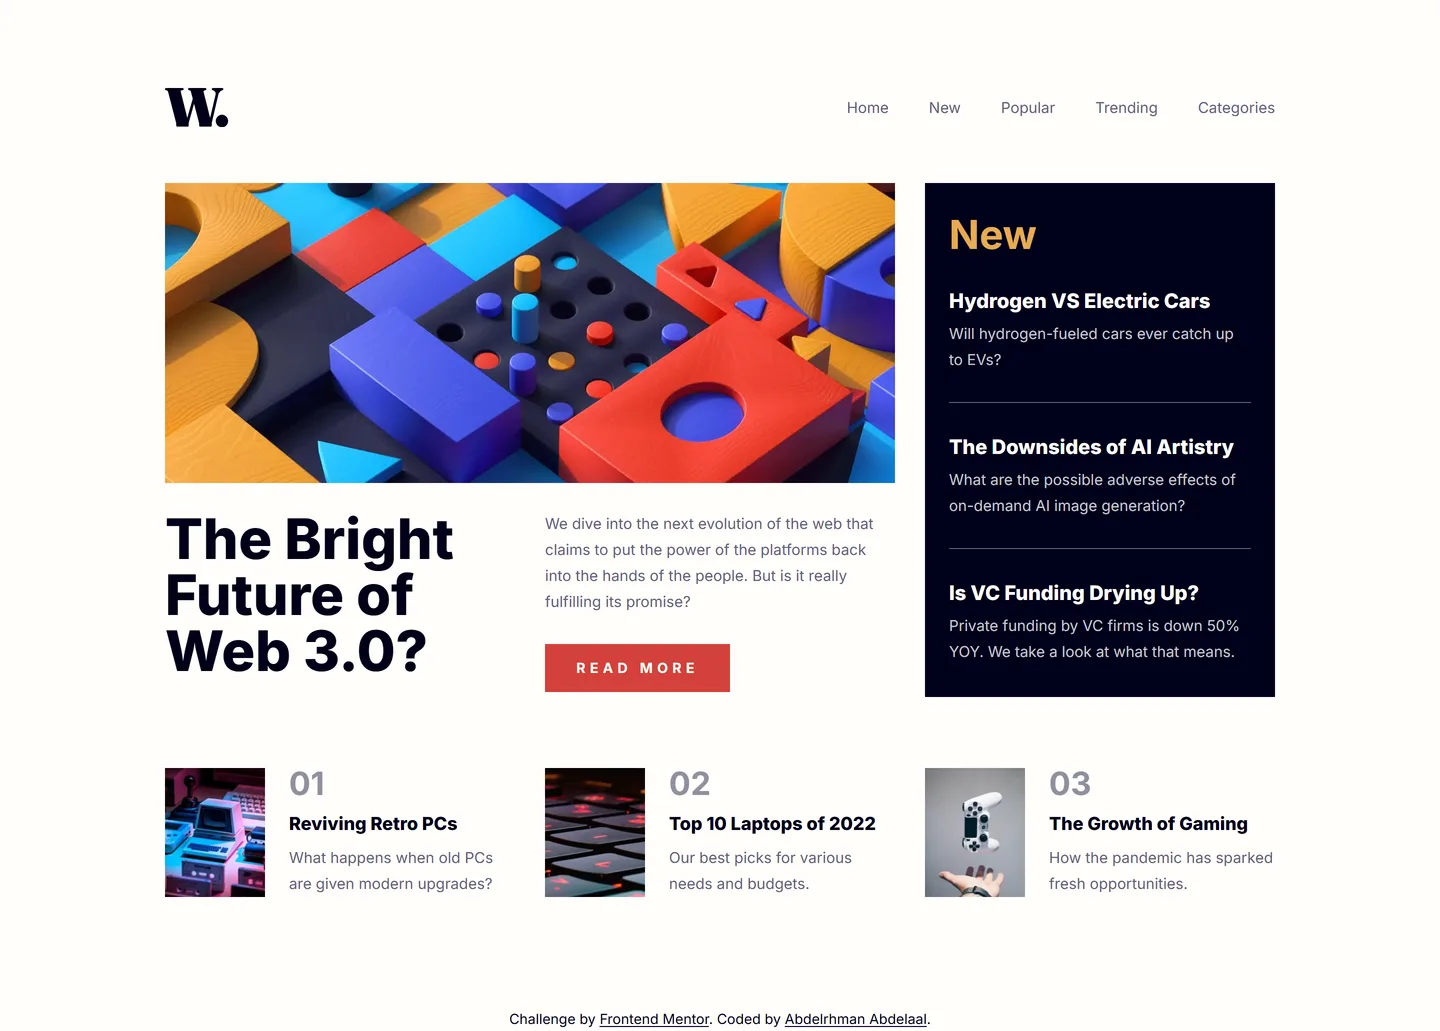
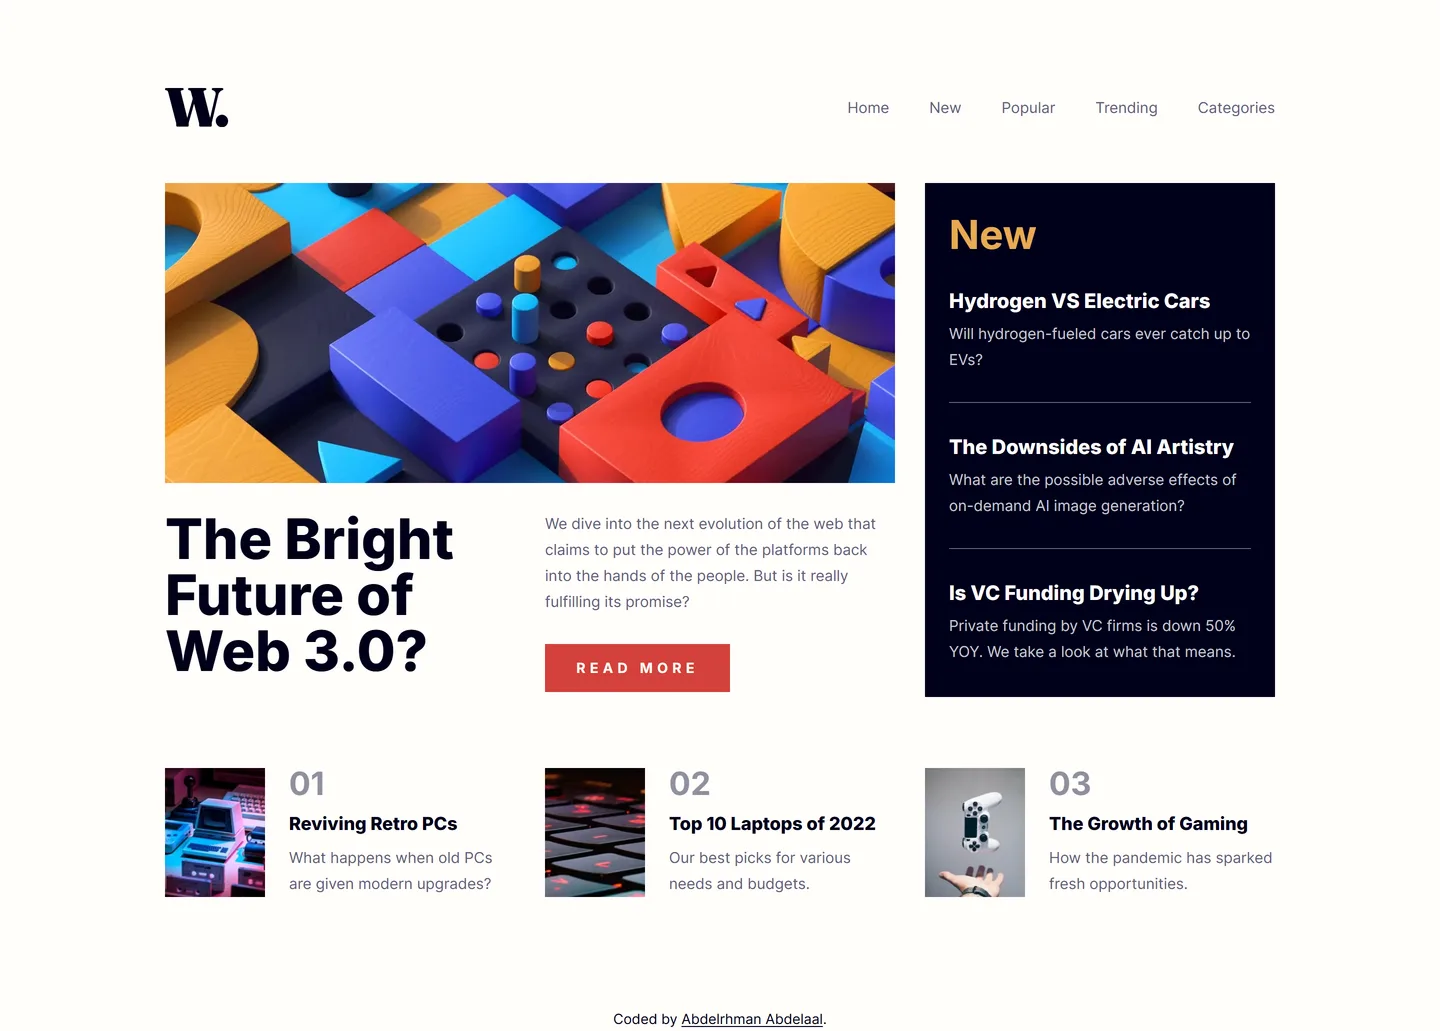
fix: update footer component to remove Frontend Mentor reference

diff --git a/src/components/layout/footer.tsx b/src/components/layout/footer.tsx
@@ -2,16 +2,7 @@ export default function Footer() {
   return (
     <footer className="px-4 pt-8 pb-0.5">
       <p className="text-center text-sm">
-        Challenge by{" "}
-        <a
-          className="v-footer-link"
-          href="https://www.frontendmentor.io?ref=challenge"
-          target="_blank"
-          rel="noopener noreferrer"
-        >
-          Frontend Mentor
-        </a>
-        . Coded by{" "}
+        Coded by{" "}
         <a
           className="v-footer-link"
           href="https://www.linkedin.com/in/abdelrhman-vanta/"
